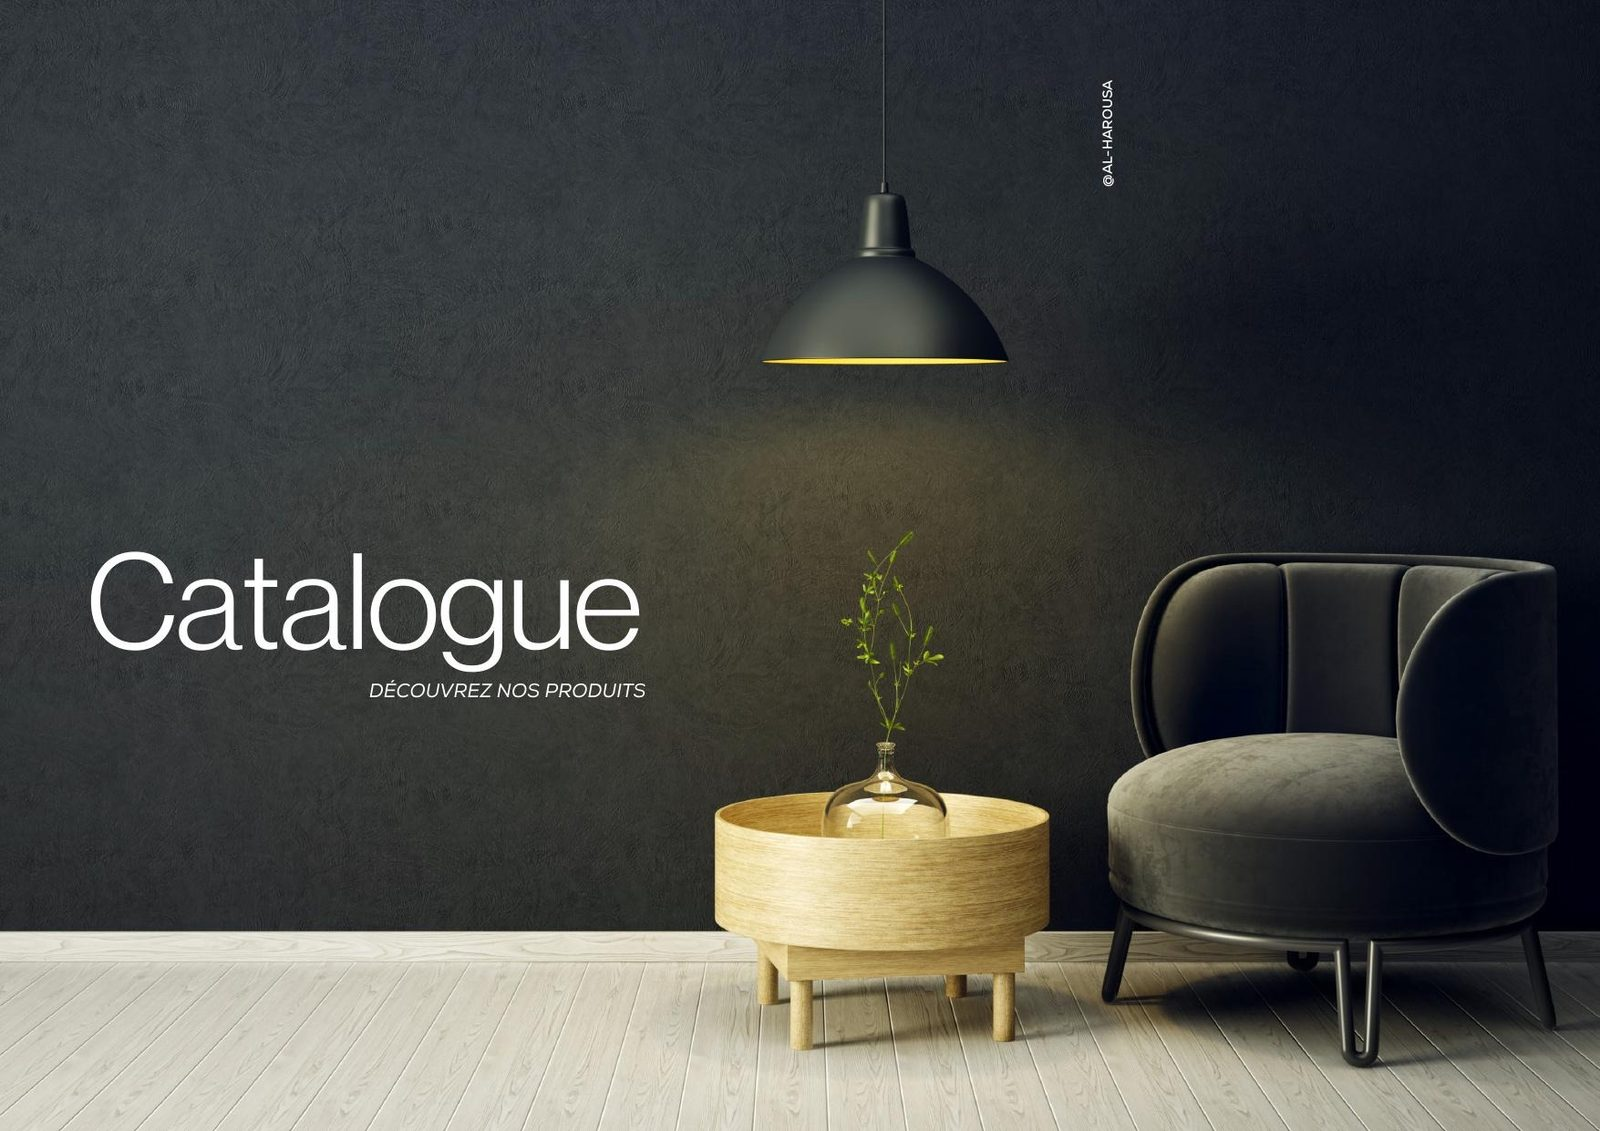
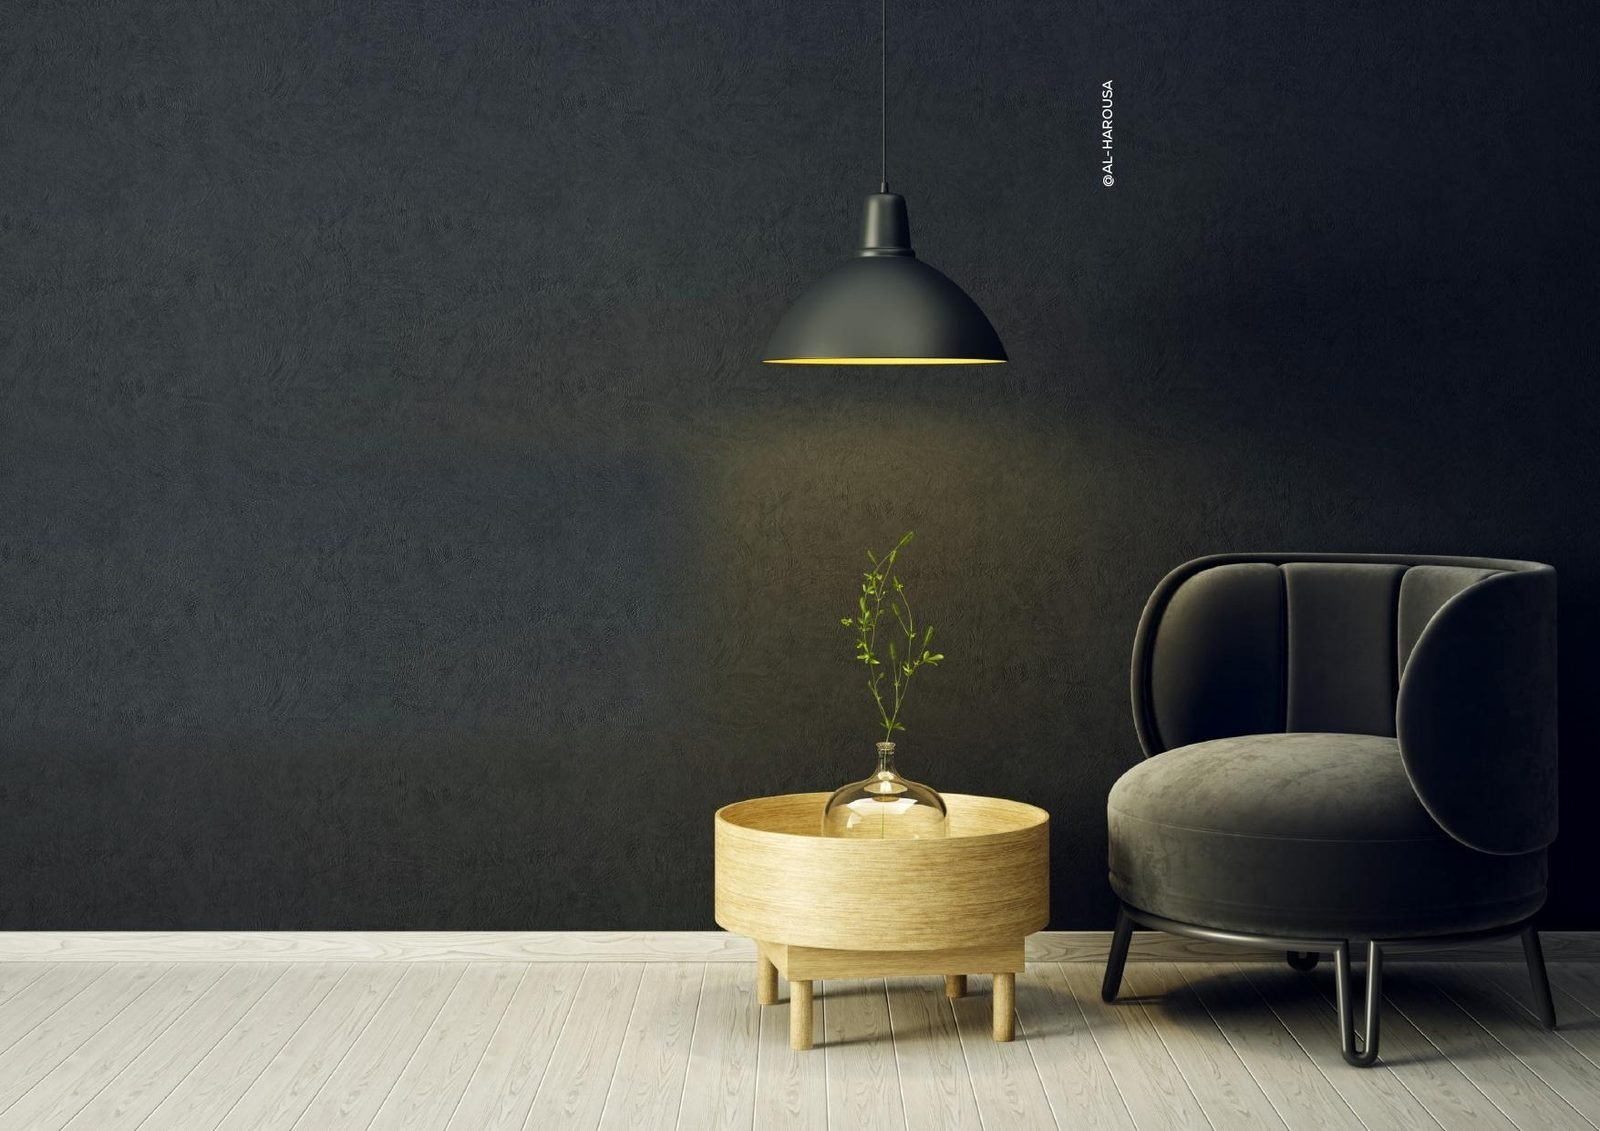
Add files via upload

Changed region(s): [[0.0625, 0.4642, 0.4062, 0.6189], [0.0312, 0.5261, 0.0625, 0.557]]

diff --git a/index.html b/index.html
@@ -6,6 +6,17 @@
 <title>AL-HAROUSA — Mobilier, aménagement &amp; décoration | Moroni</title>
 <meta name="description" content="AL-HAROUSA — Depuis 2005, mobilier, plomberie, quincaillerie, carrelage et décoration à Moroni. Livraison et montage offerts. Catalogue Comores Expo 2026.">
 
+<link rel="icon" type="image/png" sizes="32x32" href="favicon-32.png">
+<link rel="icon" type="image/png" sizes="16x16" href="favicon-16.png">
+<link rel="apple-touch-icon" sizes="180x180" href="apple-touch-icon.png">
+<meta name="theme-color" content="#211f1c">
+
+<meta property="og:type" content="website">
+<meta property="og:title" content="AL-HAROUSA — Mobilier, aménagement & décoration | Moroni">
+<meta property="og:description" content="Depuis 2005, mobilier, plomberie, quincaillerie, carrelage et décoration à Moroni. Livraison et montage offerts.">
+<meta property="og:image" content="hero.jpg">
+<meta name="twitter:card" content="summary_large_image">
+
 <link rel="preconnect" href="https://fonts.googleapis.com">
 <link rel="preconnect" href="https://fonts.gstatic.com" crossorigin>
 <link href="https://fonts.googleapis.com/css2?family=Oswald:wght@400;500;600;700&family=Jost:wght@300;400;500;600&display=swap" rel="stylesheet">
@@ -307,6 +318,7 @@
     margin-top:60px;
   }
   .grid-products.cols-2{grid-template-columns:repeat(2,1fr);}
+  .grid-products.cols-2 .card:last-child:nth-child(odd){grid-column:1/-1;}
   .card{
     background:var(--black);
     position:relative;
@@ -381,8 +393,10 @@
     letter-spacing:0.1em;
     text-transform:uppercase;
     color:var(--gold);
-    border-bottom:1px solid var(--gold);
-    padding-bottom:2px;
+    text-decoration:underline;
+    text-underline-offset:4px;
+    text-decoration-thickness:1px;
+    text-align:right;
   }
 
   /* ---------- Services strip (simple categories, sur devis) ---------- */
@@ -655,6 +669,7 @@
     .burger{display:block;}
     .about-grid{grid-template-columns:1fr;gap:40px;}
     .grid-products{grid-template-columns:repeat(2,1fr) !important;}
+    .grid-products:not(.cols-2) .card:last-child:nth-child(odd){grid-column:1/-1;}
     .services-grid{grid-template-columns:1fr;}
     .contact-grid{grid-template-columns:1fr;}
     .promise{flex-direction:column;align-items:flex-start;}

diff --git a/admin.html b/admin.html
@@ -5,6 +5,8 @@
 <meta name="viewport" content="width=device-width, initial-scale=1.0">
 <title>Administration — AL-HAROUSA</title>
 <meta name="robots" content="noindex, nofollow">
+<link rel="icon" type="image/png" sizes="32x32" href="favicon-32.png">
+<meta name="theme-color" content="#211f1c">
 
 <link rel="preconnect" href="https://fonts.googleapis.com">
 <link rel="preconnect" href="https://fonts.gstatic.com" crossorigin>
